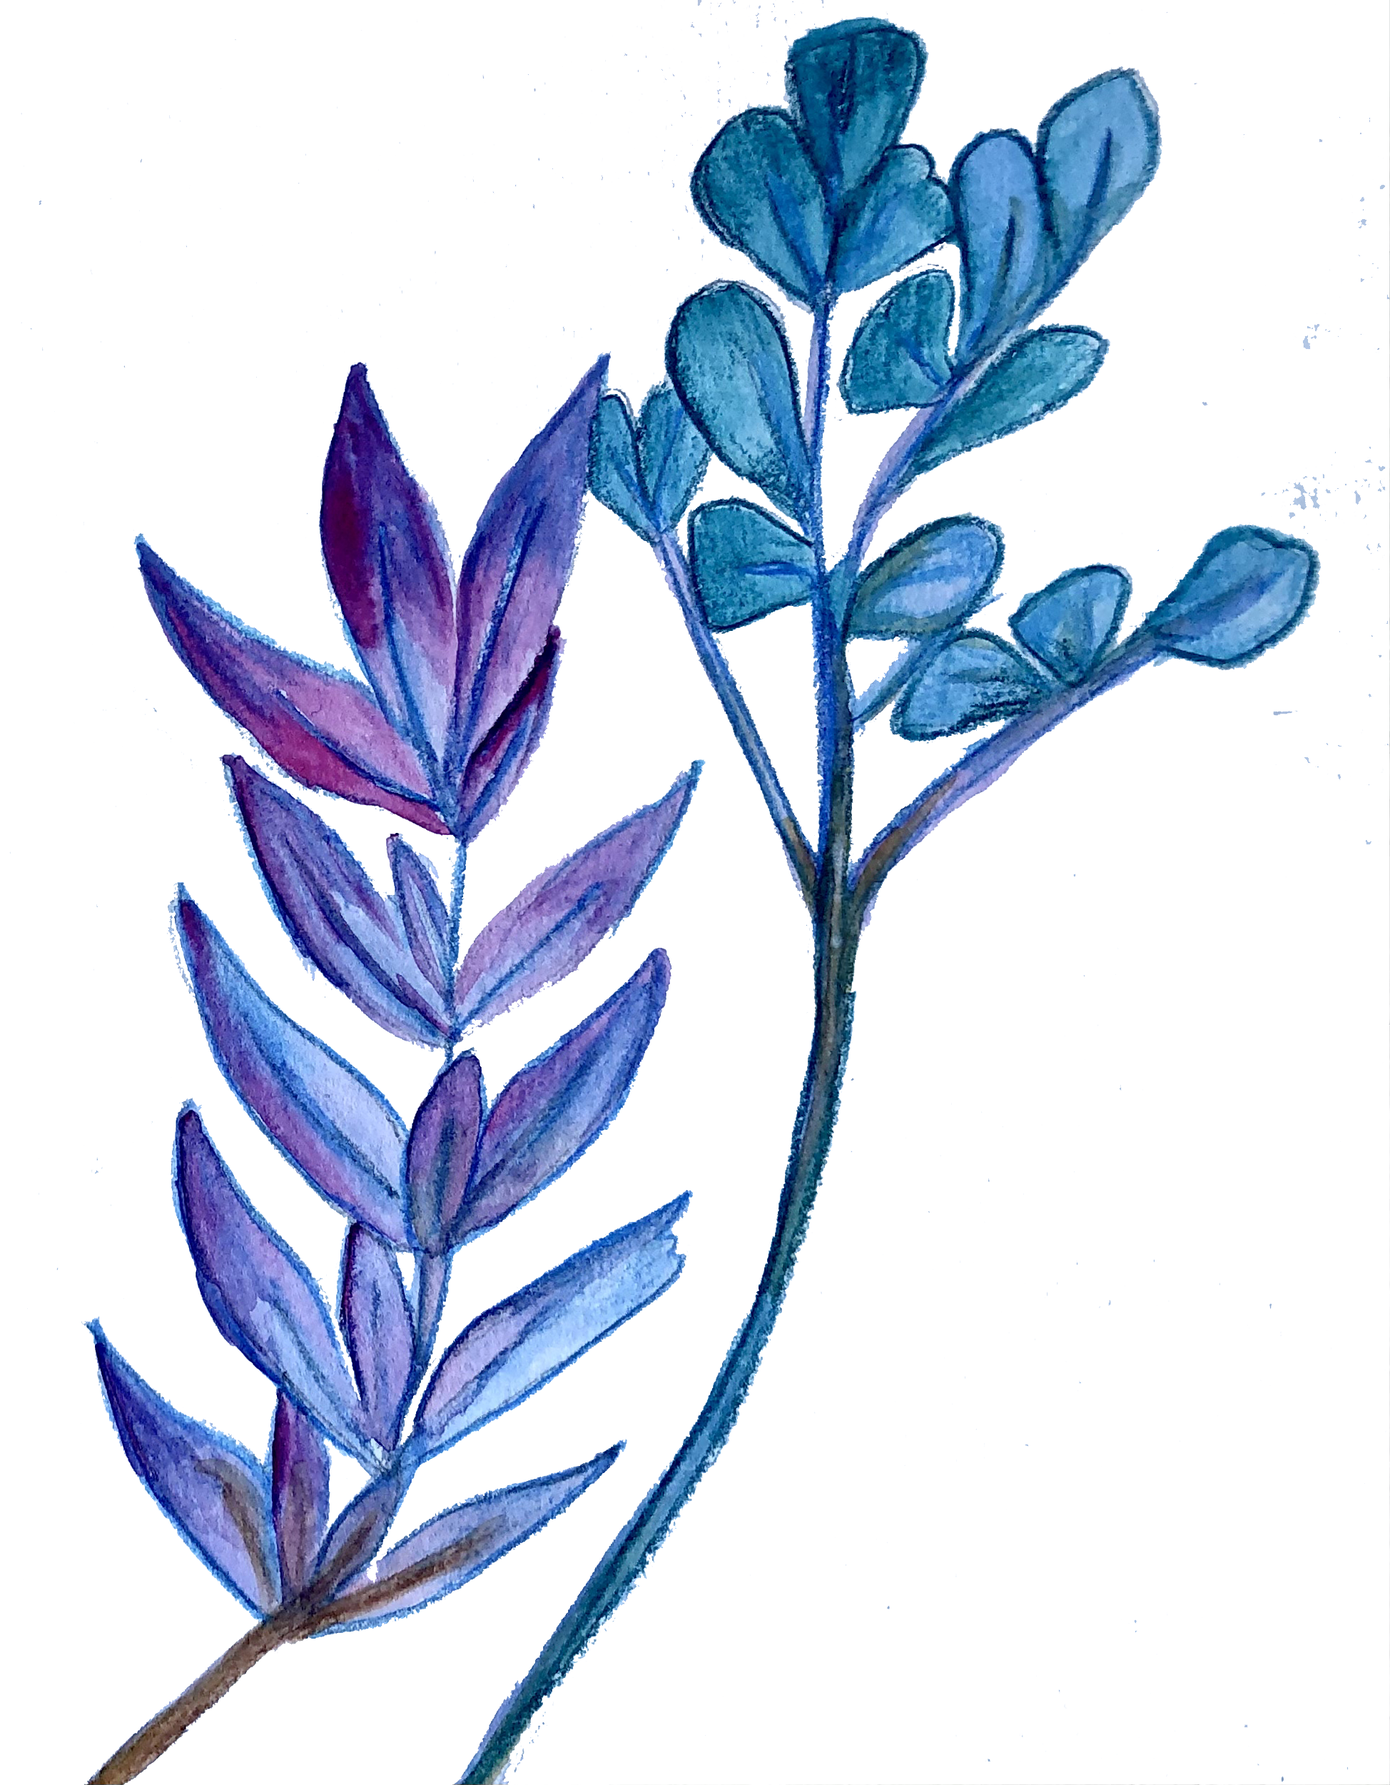
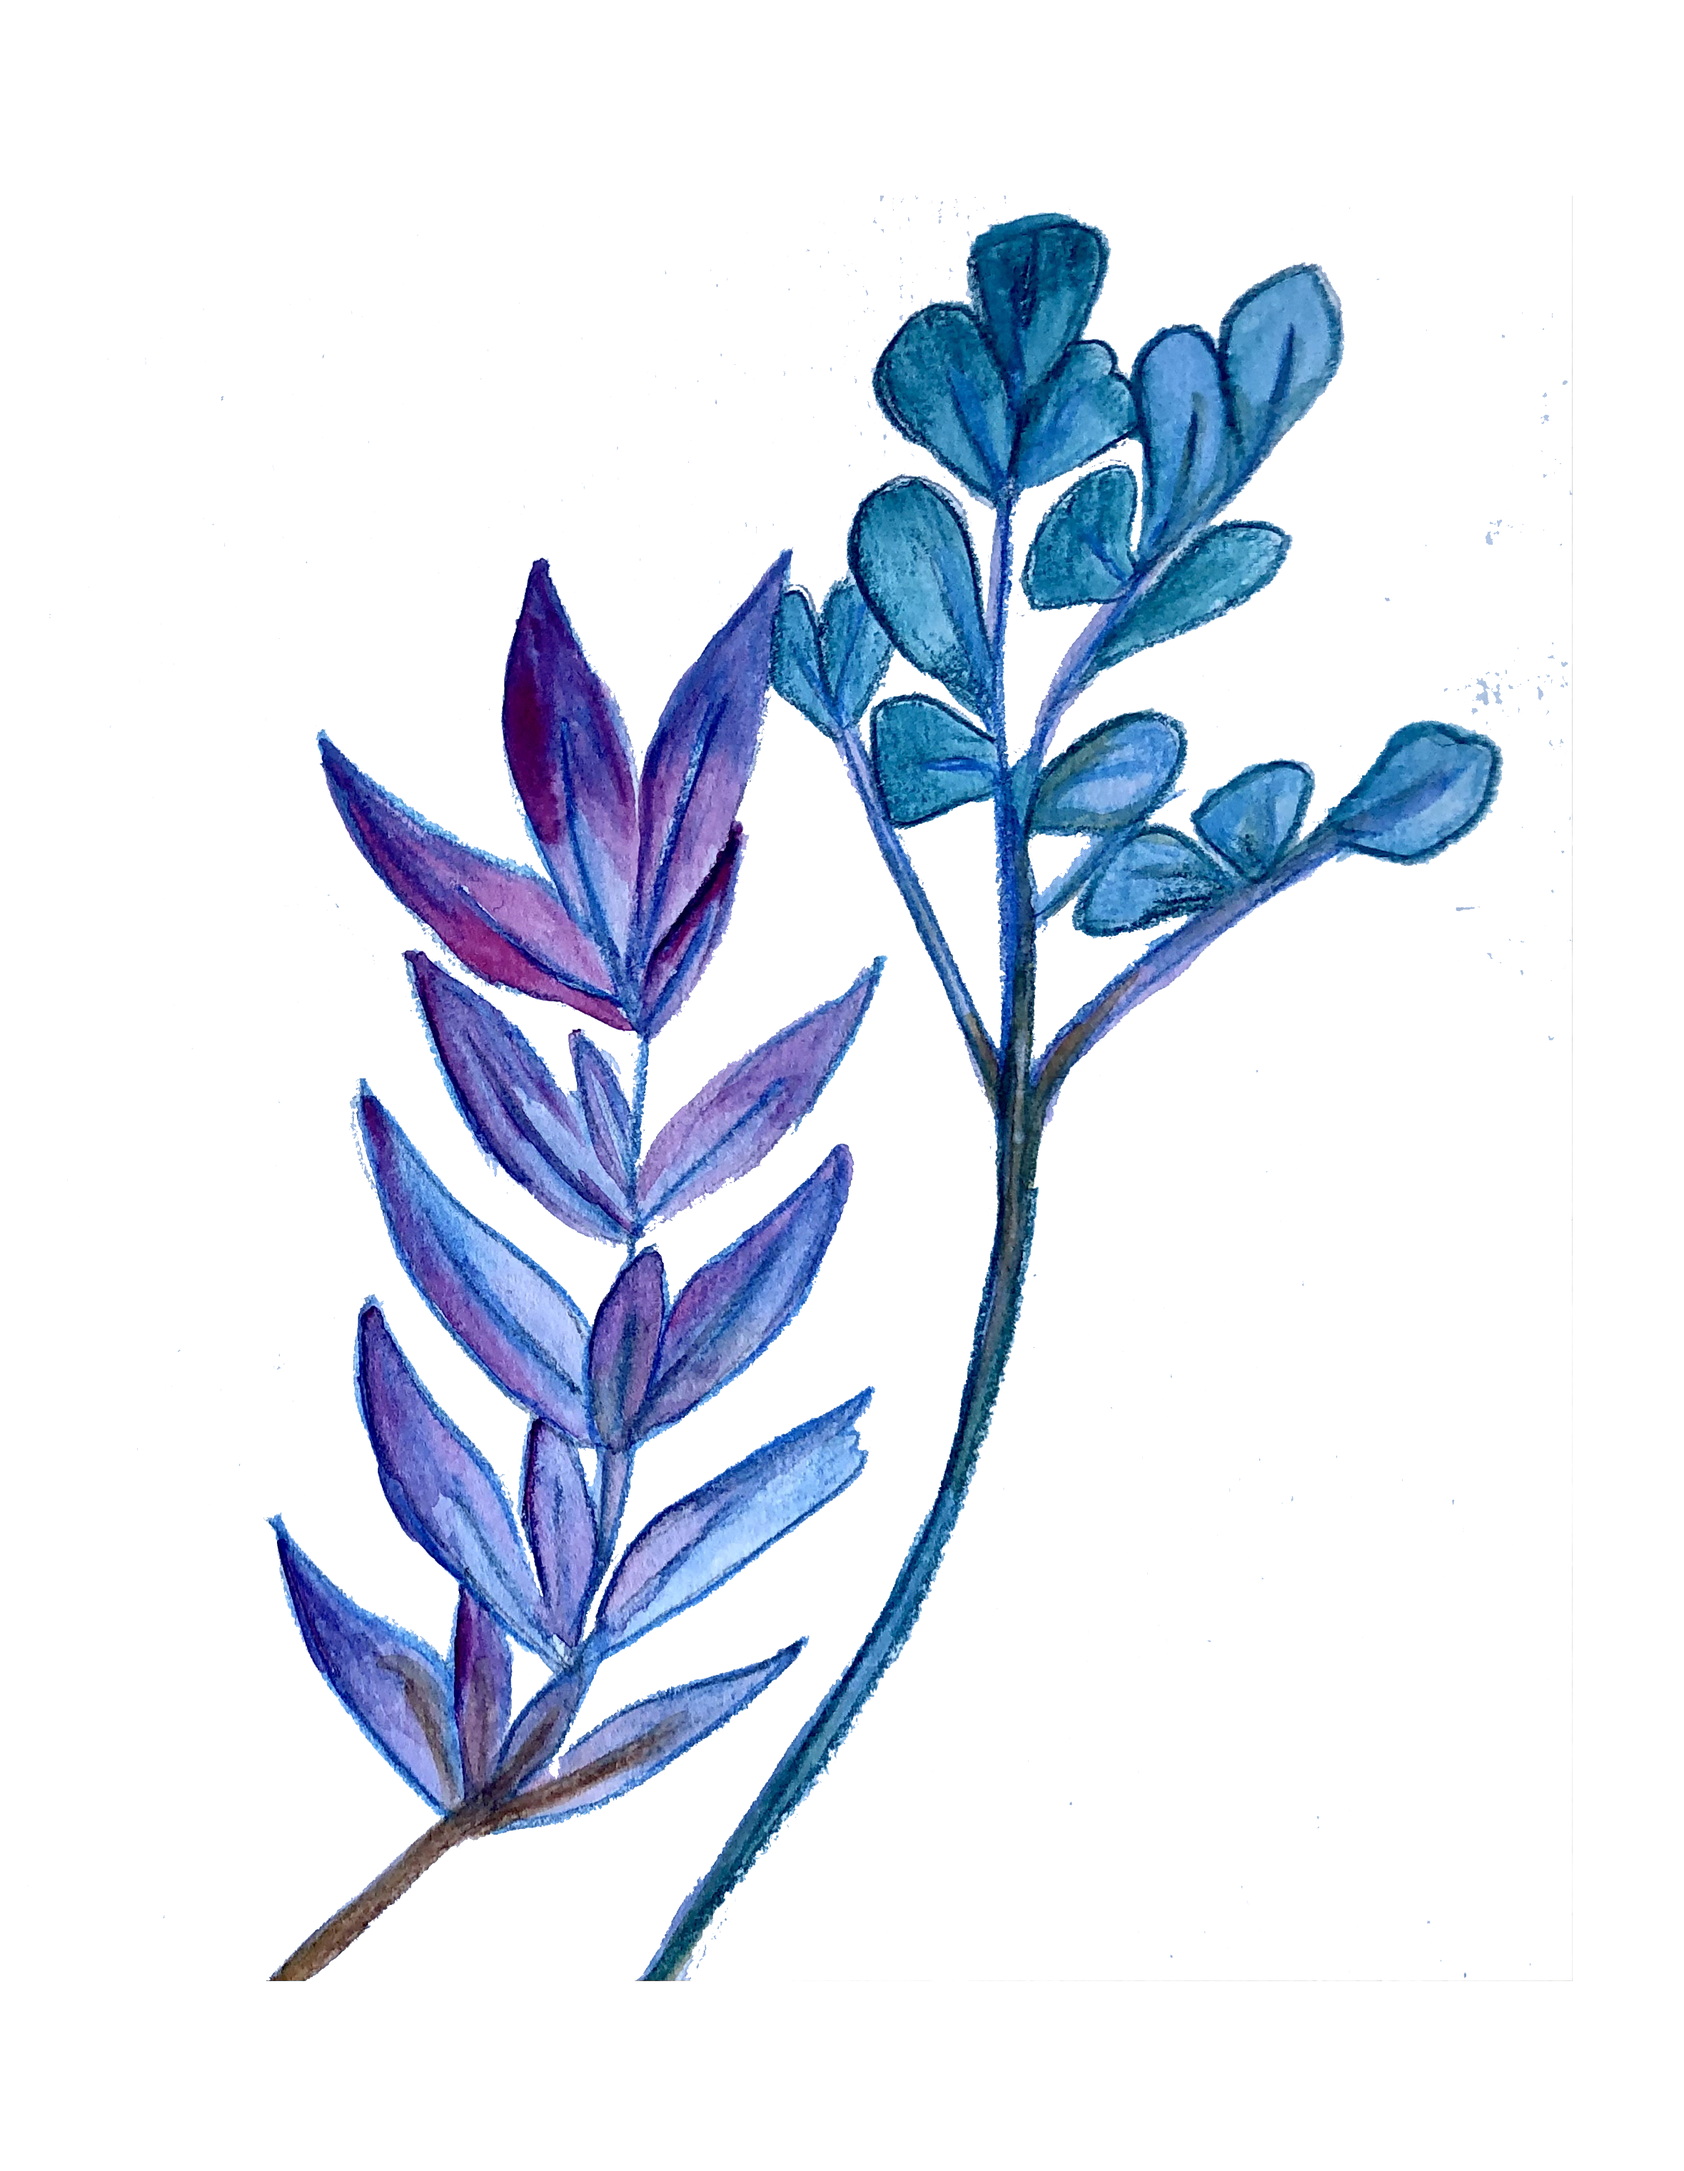
background images to galleries & fix nav bar

diff --git a/app/extended-gallery/page.tsx b/app/extended-gallery/page.tsx
@@ -864,7 +864,7 @@ export default function ExtendedGallery() {
                 backgroundRepeat: 'no-repeat',
                 backgroundPosition: 'center 10%',
                 backgroundSize: '70%',
-                opacity: 0.18,
+                opacity: 0.8,
                 filter: 'grayscale(0%) blur(0.5px)',
               }}
             />
@@ -912,11 +912,11 @@ export default function ExtendedGallery() {
               className="absolute inset-0 w-full h-full z-0 pointer-events-none"
               aria-hidden="true"
               style={{
-                backgroundImage: `url('${basePath}/images/deco_flowers.png')`,
+                backgroundImage: `url('${basePath}/images/venere_background.png')`,
                 backgroundRepeat: 'no-repeat',
                 backgroundPosition: 'center 10%',
                 backgroundSize: '70%',
-                opacity: 0.18,
+                opacity: 0.7,
                 filter: 'grayscale(0%) blur(0.5px)',
               }}
             />
@@ -964,11 +964,11 @@ export default function ExtendedGallery() {
               className="absolute inset-0 w-full h-full z-0 pointer-events-none"
               aria-hidden="true"
               style={{
-                backgroundImage: `url('${basePath}/images/deco_flowers.png')`,
+                backgroundImage: `url('${basePath}/images/hug_background.png')`,
                 backgroundRepeat: 'no-repeat',
-                backgroundPosition: 'center 10%',
-                backgroundSize: '70%',
-                opacity: 0.18,
+                backgroundPosition: 'center 40%',
+                backgroundSize: '100%',
+                opacity: 0.3,
                 filter: 'grayscale(0%) blur(0.5px)',
               }}
             />

diff --git a/app/page.tsx b/app/page.tsx
@@ -486,11 +486,11 @@ export default function HomePage() {
             className="absolute inset-0 w-full h-full z-0 pointer-events-none"
             aria-hidden="true"
             style={{
-              backgroundImage: `url('${basePath}/images/deco_flowers.png')`,
+              backgroundImage: `url('${basePath}/images/tropical_background.png')`,
               backgroundRepeat: 'no-repeat',
-              backgroundPosition: 'center 10%',
-              backgroundSize: '70%',
-              opacity: 0.18,
+              backgroundPosition: 'center 50%',
+              backgroundSize: '90%',
+              opacity: 0.15,
               filter: 'grayscale(0%) blur(0.5px)',
             }}
           />
@@ -539,7 +539,7 @@ export default function HomePage() {
         <div
           className="absolute inset-0 w-full h-full z-0"
           style={{
-            backgroundImage: `url('${basePath}/images/liquid.jpg')`,
+            backgroundImage: `url('${basePath}/images/birthofcosmos.jpg')`,
             backgroundSize: 'cover',
             backgroundPosition: 'center',
             opacity: 0.4, // Adjust for desired opacity
